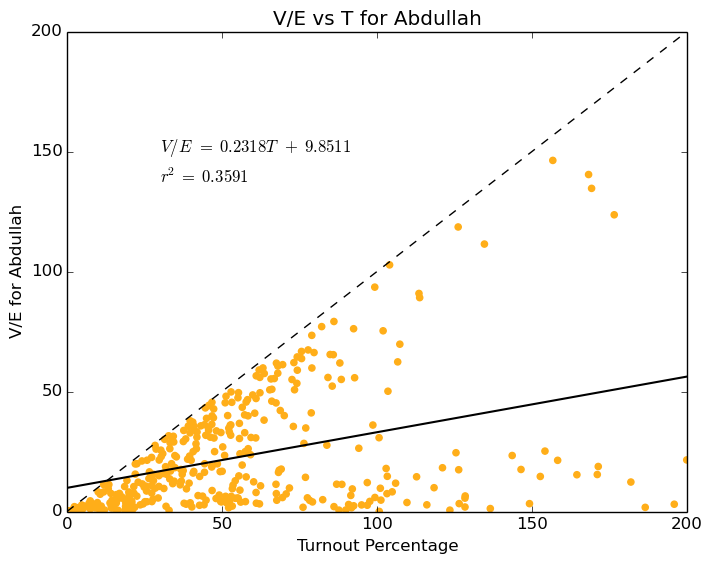
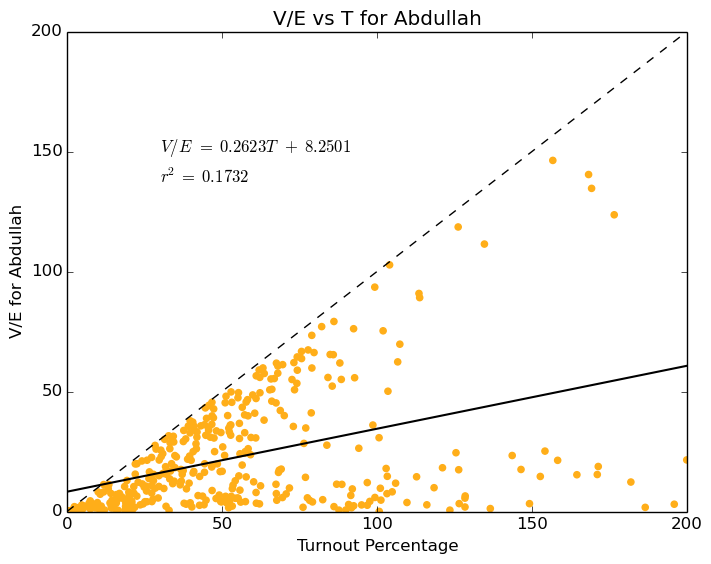
Ignored turnouts > 200% in some figures.
Specifically, these are now ignored in constructing the fit lines for
V/E vs T and VS vs T, since they mostly just look like outliers.

diff --git a/python/vote_share_vs_t.py b/python/vote_share_vs_t.py
@@ -3,6 +3,9 @@
 # candidate received in the runoff election as a function of turnout.
 # Individual points in the outputted plots represent districts.
 #
+# Note that districts with > 200% turnout are not included in our fits and
+# graphs.
+#
 # Input files:
 #       * ../clean_data/runoff_votes_and_turnout.csv
 #
@@ -134,6 +137,8 @@ def getProvinceDistrictToVoteShare(candidate):
 # output plots are saved to plotSaveFile (just the vote share vs T plot
 # with the linear fit) and residPlotSaveFile (for the residual plot).
 #
+# Note that we ignore places with > 200% turnout.
+#
 def plotVoteShareVsT(candidate,
                      provinceDistrictToCandidateVoteShare,
                      provinceDistrictToTurnout,
@@ -157,9 +162,12 @@ def plotVoteShareVsT(candidate,
     yValues = list()
 
     for provinceDistrict in provinceDistrictToCandidateVoteShare:
-        xValues.append(provinceDistrictToTurnout[provinceDistrict])
-        yValues.append(\
-                provinceDistrictToCandidateVoteShare[provinceDistrict])
+        turnout = provinceDistrictToTurnout[provinceDistrict]
+        voteShare = provinceDistrictToCandidateVoteShare[provinceDistrict]
+
+        if turnout <= 200.0:
+            xValues.append(turnout)
+            yValues.append(voteShare)
 
     xValues = np.array(xValues)
     yValues = np.array(yValues)
@@ -186,18 +194,18 @@ def plotVoteShareVsT(candidate,
     # Include the fitted line's equation and r^2. Format the equation
     # correctly depending on the intercept's sign.
     if intercept >= 0:
-        plt.text(120.0, 33.0, r"$VS \,= \," + str(slope)[0:6] +\
+        plt.text(115.0, 28.0, r"$VS \,= \," + str(slope)[0:6] +\
                  "T \,+\, " + str(intercept)[0:6] + r"$")
     else:
-        plt.text(120.0, 33.0, r"$VS \,= \," + str(slope)[0:6] +\
+        plt.text(115.0, 28.0, r"$VS \,= \," + str(slope)[0:6] +\
                  "T \,-\, " + str(abs(intercept))[0:6] + r"$")
 
-    plt.text(120.0, 28.0, r"$r^2 = \," + str(rValue**2.0)[0:6] + r"$")
+    plt.text(115.0, 23.0, r"$r^2 = \," + str(rValue**2.0)[0:6] + r"$")
 
     # Save to file and inform the user.
     plt.savefig(plotSaveFile, bbox_inches = "tight")
     plt.close()
-    print "Saved vote share vs T plot for", candidate, "to\n", plotSaveFile
+    print "Saved VS vs T plot for", candidate, "to\n", plotSaveFile
 
     # Plot the residual plot, with a flat line at y = 0 for reference.
     fig = plt.figure()
@@ -213,7 +221,7 @@ def plotVoteShareVsT(candidate,
     # Save to file and inform the user.
     plt.savefig(residPlotSaveFile, bbox_inches = "tight")
     plt.close()
-    print "Saved vote share vs T residual plot for", candidate, "to\n",\
+    print "Saved VS vs T residual plot for", candidate, "to\n",\
             residPlotSaveFile, "\n"
 
 
@@ -232,8 +240,8 @@ if __name__ == "__main__":
     plotVoteShareVsT("Abdullah",
                      provinceDistrictToAbdullahVoteShare,
                      provinceDistrictToTurnout,
-                     "Vote Share vs T for Abdullah",
-                     "Vote Share vs T Residuals for Abdullah",
+                     "VS vs T for Abdullah",
+                     "VS vs T Residuals for Abdullah",
                      ABDULLAH_COLOR,
                      ABDULLAH_VOTE_SHARE_VS_T,
                      ABDULLAH_VOTE_SHARE_VS_T_RESID)
@@ -241,8 +249,8 @@ if __name__ == "__main__":
     plotVoteShareVsT("Ghani",
                      provinceDistrictToGhaniVoteShare,
                      provinceDistrictToTurnout,
-                     "Vote Share vs T for Ghani",
-                     "Vote Share vs T Residuals for Ghani",
+                     "VS vs T for Ghani",
+                     "VS vs T Residuals for Ghani",
                      GHANI_COLOR,
                      GHANI_VOTE_SHARE_VS_T,
                      GHANI_VOTE_SHARE_VS_T_RESID)

diff --git a/python/v_over_e_vs_t.py b/python/v_over_e_vs_t.py
@@ -135,6 +135,8 @@ def getProvinceDistrictToVOverE(candidate):
 # (just the V/E vs T plot with the linear fit) and residPlotSaveFile (for
 # the residual plot).
 #
+# Note that we ignore places with > 200% turnout.
+#
 def plotVOverEVsT(candidate,
                   provinceDistrictToCandidateVOverE,
                   provinceDistrictToTurnout,
@@ -158,8 +160,12 @@ def plotVOverEVsT(candidate,
     yValues = list()
 
     for provinceDistrict in provinceDistrictToCandidateVOverE:
-        xValues.append(provinceDistrictToTurnout[provinceDistrict])
-        yValues.append(provinceDistrictToCandidateVOverE[provinceDistrict])
+        turnout = provinceDistrictToTurnout[provinceDistrict]
+        vOverE = provinceDistrictToCandidateVOverE[provinceDistrict]
+
+        if turnout < 200.0:
+            xValues.append(turnout)
+            yValues.append(vOverE)
 
     xValues = np.array(xValues)
     yValues = np.array(yValues)
@@ -208,7 +214,7 @@ def plotVOverEVsT(candidate,
     plt.xlim([0.0, 200.0])
     plt.ylim([-100.0, 100.0])
     plt.xlabel("Turnout Percentage")
-    plt.ylabel("V/E Residuals")
+    plt.ylabel("Residual V/E")
     plt.title(residPlotTitle)
 
     # Save to file and inform the user.
